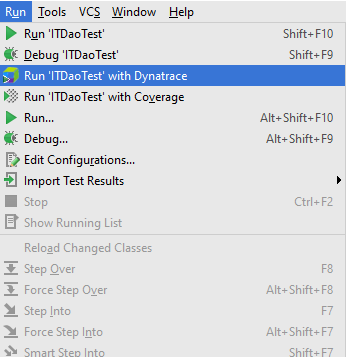
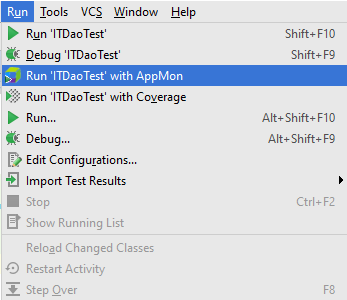
JLT-156236: Updated screenshots to reflect changes made in JLT-156162, #4244b011

Changed region(s): [[0.0, 0.0, 1.0, 1.0]]

diff --git a/README.md b/README.md
@@ -1,4 +1,4 @@
-![](img/logo_IntelliJIDEA.svg)
+![](img/logo_IntelliJIDEA.png)
 
 # Dynatrace IntelliJ Idea Integration Plugin
  
